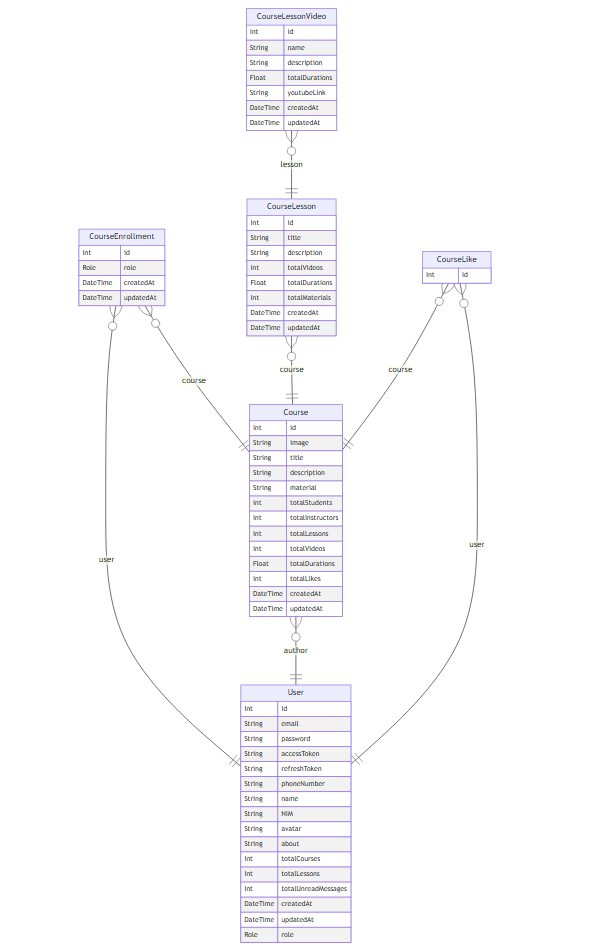
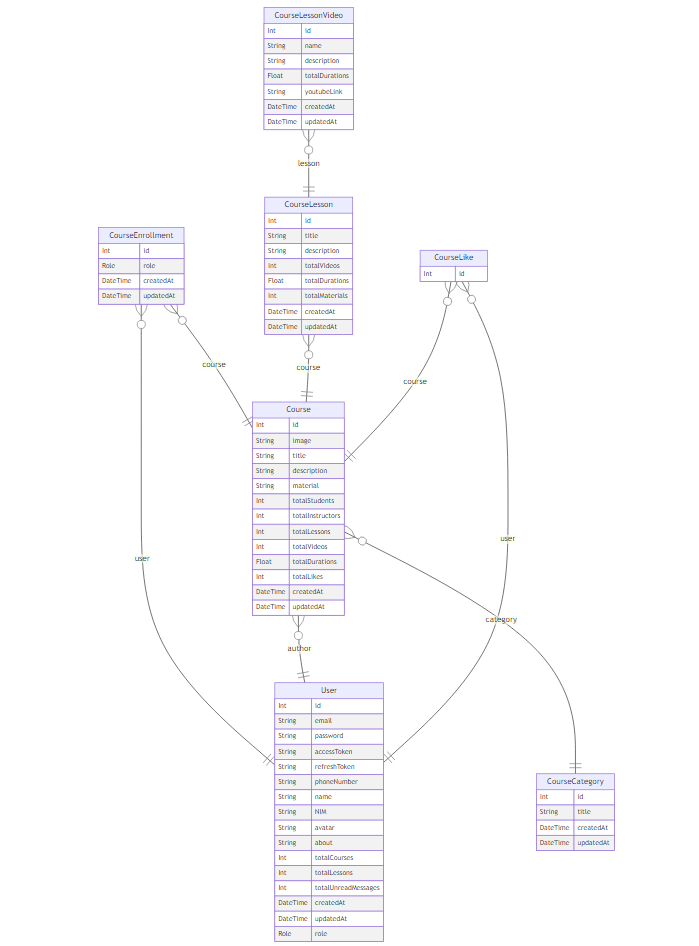
updates

diff --git a/README.md b/README.md
@@ -7,11 +7,16 @@
 ![Alt text](4-layer-architecture.png)
 
 ## Entitiy Relationship Diagram (ERD)
-
 ![Alt text](entity-relationship-diagram.png)
 
-## Prisma Schema
+## API Documentation
+Link: _currently unavailable_
+![Alt text](image.png)
 
+## Unit Test (91.21% Line Coverage)
+![Alt text](coverage.png)
+
+## Prisma Schema
 ```prisma
 datasource db {
   provider = "mysql"
@@ -79,6 +84,9 @@ model Course {
   author   User @relation(fields: [authorId], references: [id])
   authorId Int  @map("author_id")
 
+  category   CourseCategory @relation(fields: [categoryId], references: [id])
+  categoryId Int            @map("category_id")
+
   enrollments CourseEnrollment[]
   lessons     CourseLesson[]
   likes       CourseLike[]
@@ -129,6 +137,18 @@ model CourseLike {
   userId   Int    @map("user_id")
 
   @@unique([courseId, userId])
+  @@map("course_like")
+}
+
+model CourseCategory {
+  id        Int      @id @default(autoincrement())
+  title     String
+  createdAt DateTime @default(now()) @map("created_at")
+  updatedAt DateTime @updatedAt @map("updated_at")
+
+  courses Course[]
+
+  @@map("course_category")
 }
 
 enum Role {
@@ -138,12 +158,6 @@ enum Role {
 }
 ```
 
-## API Documentation
-Link: _currently unavailable_
-![Alt text](image.png)
-
-## Unit Test (91.21% Line Coverage)
-![Alt text](coverage.png)
 
 ## User
 ![Alt text](user.png)
